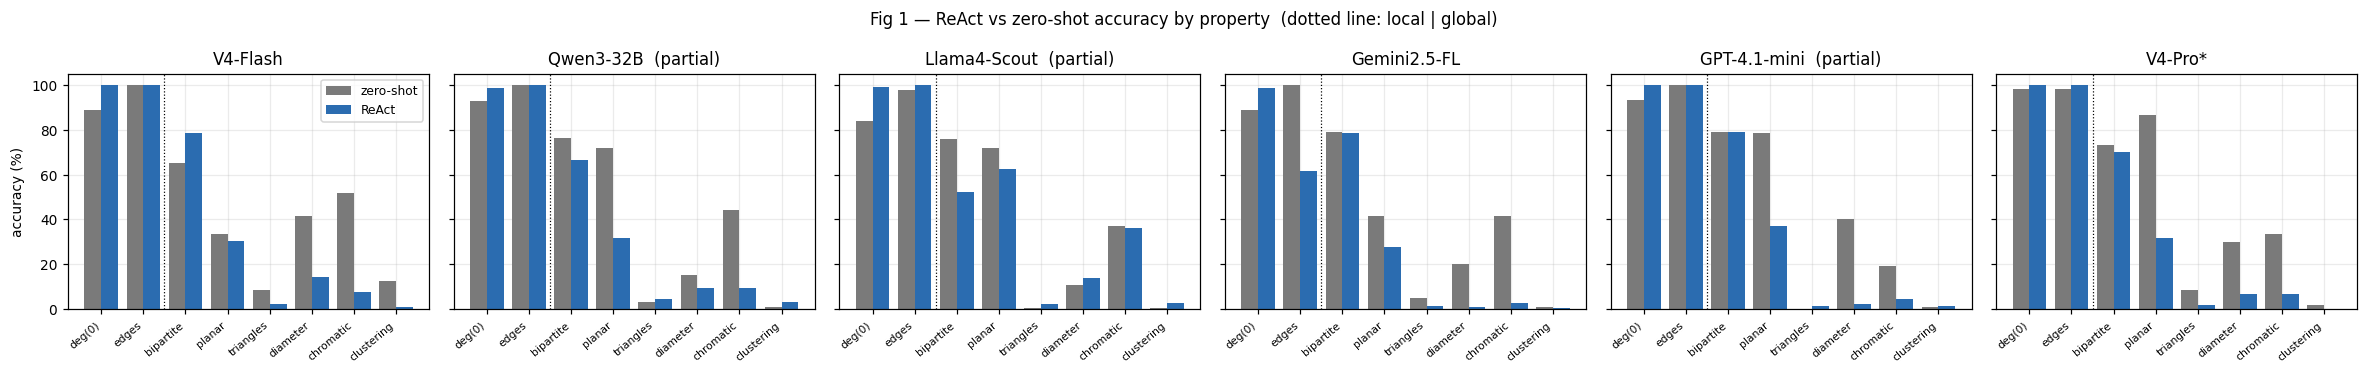
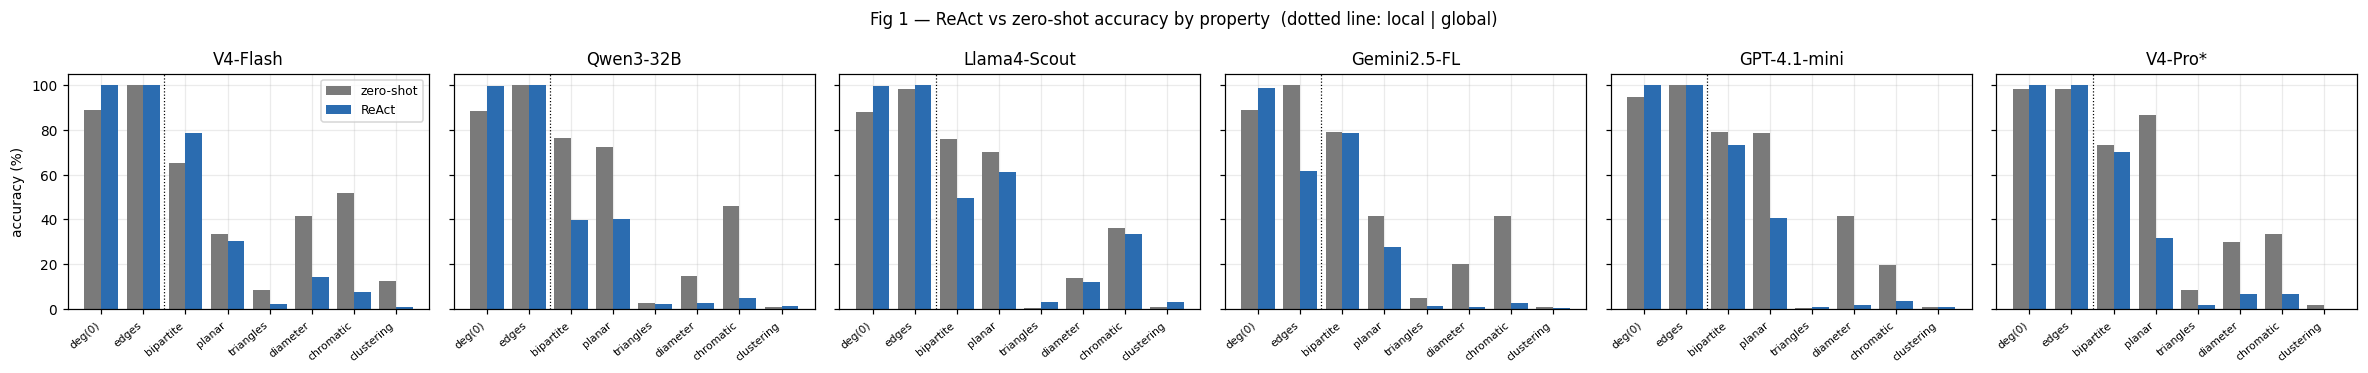
Experiment 2 (ReAct): complete the 3 credit-blocked runs; full-coverage report
Qwen3-32B, Llama4-Scout and GPT-4.1-mini ReAct runs resumed to full 300-graph
coverage, and their matched same-session zero-shot controls added. All six
models now have a complete ReAct arm plus a matched zero-shot baseline (no
Experiment-1 fallback needed).

- evaluate_react.py: NOTE block now reflects actual coverage/fallback state
  instead of hard-coding the partial-run caveat.
- phase3_evaluation_react_graph/results/, figures/: regenerated on full data.
- READMEs: drop the "partial coverage" / "no API calls yet" caveats.

Finding is unchanged and now holds on full coverage: ReAct helps the local
properties (+2.7..+6.7pp for 5/6 models; Gemini -14.3pp, dragged down by its
edge_count loop-format failure) and hurts every global property for every
model (-5.8..-20.3pp aggregate). Raw result payloads remain gitignored.

diff --git a/phase3_evaluation_react_graph/evaluate_react.py b/phase3_evaluation_react_graph/evaluate_react.py
@@ -271,11 +271,20 @@ if FAIL:
         out(f"  {k:20s} {v:4d}  ({100*v/tot:.0f}%)")
     out("")
 
-out("NOTE")
-out("  Qwen3-32B / Llama4-Scout / GPT-4.1-mini ReAct runs stopped mid-batch on")
-out("  API credit exhaustion (OpenRouter 402 / OpenAI 429). Their rows above are")
-out("  partial and their zero-shot column falls back to Experiment 1's committed")
-out("  results; re-run the runners once credits are topped up for a clean pair.")
+_partial = [r["label"] for r in rows_present if r["partial"]]
+_fallback = [r["label"] for r in rows_present if r["src"] != "matched (same session)"]
+if _partial or _fallback:
+    out("NOTE")
+    if _partial:
+        out(f"  Partial ReAct coverage (stopped on API credit exhaustion): {', '.join(_partial)}.")
+        out("  Re-run the runners to complete; treat those rows' CIs as wider than printed.")
+    if _fallback:
+        out(f"  Zero-shot column is Experiment 1's committed run (not a same-session")
+        out(f"  matched control) for: {', '.join(_fallback)}.")
+else:
+    out("NOTE")
+    out("  All six models have full ReAct coverage and a matched, same-session")
+    out("  zero-shot control. V4-Pro* is the 60-graph 20% subsample, as in Experiment 1.")
 
 (RESULTS / "evaluation_summary.txt").write_text("\n".join(lines) + "\n")
 print("\n".join(lines))

diff --git a/phase3_evaluation_react_graph/README.md b/phase3_evaluation_react_graph/README.md
@@ -18,9 +18,9 @@ Inputs, read in place (nothing copied):
 
 | Arm | Path | Notes |
 |---|---|---|
-| ReAct | `../phase2_react_graph/<NN>/<key>_results.json` | 3 complete (V4-Flash, Gemini, V4-Pro*), 3 partial (Qwen3, Llama4-Scout, GPT-4.1-mini — API credits ran out mid-run) |
-| Zero-shot (matched) | `../phase2_react_graph/<NN>/<key>_zeroshot_results.json` | Experiment 1's method exactly, re-run in the same session as the ReAct arm — V4-Flash, Gemini, V4-Pro* |
-| Zero-shot (fallback) | `../phase2_model_results_graph/<NN>/<key>_results.json` | Experiment 1's committed zero-shot, used only where the matched control was not run |
+| ReAct | `../phase2_react_graph/<NN>/<key>_results.json` | all six models, full coverage (300 graphs; V4-Pro* on the 60-graph subsample) |
+| Zero-shot (matched) | `../phase2_react_graph/<NN>/<key>_zeroshot_results.json` | Experiment 1's method exactly, re-run in the same session as the ReAct arm — all six models |
+| Zero-shot (fallback) | `../phase2_model_results_graph/<NN>/<key>_results.json` | Experiment 1's committed zero-shot; the script uses it only if a matched control file is missing |
 
 ## Run
 
@@ -74,12 +74,6 @@ a format-fragile model on an otherwise trivial local read. See
 
 ## Known limitations
 
-- **Partial ReAct coverage for 3 models.** Qwen3-32B, Llama4-Scout and
-  GPT-4.1-mini stopped mid-run on API credit exhaustion; their rows are partial
-  and their zero-shot column falls back to Experiment 1's committed results
-  (a different session, and JSON-mode-on for the models where Experiment 1 used
-  it). Re-run those Phase-2 runners once credits are topped up for a clean
-  matched pair, then re-run this script.
 - **Failure labels are heuristic**, same discipline as Experiment 1 —
   `manual_label` is left `null` for the review pass.
 - No cross-domain decision readout here; Experiment 2 has only been run on the

diff --git a/phase2_react_graph/README.md b/phase2_react_graph/README.md
@@ -20,9 +20,11 @@ mechanism, logging, JSON export, the cost summary, and the CLI. Only the call
 changes: one API call per question becomes a capped ReAct loop. No file
 outside `phase2_react_graph/` is modified.
 
-**No API calls have been made yet.** The harness is validated offline
-(`_common/selftest_react.py`, all six `--dry-run`). Running the models needs
-your keys in `.env` (root README §"API keys") and is a paid operation.
+**Run 2026-08-30/09-01.** All six models have a full ReAct run and a matched
+same-session zero-shot control; results live beside each runner (gitignored —
+see §5). The harness is also validated offline (`_common/selftest_react.py`,
+all six `--dry-run`). Re-running needs your keys in `.env` (root README §"API
+keys") and is a paid operation; every runner resumes by `(object_id, property)`.
 
 ---
 
